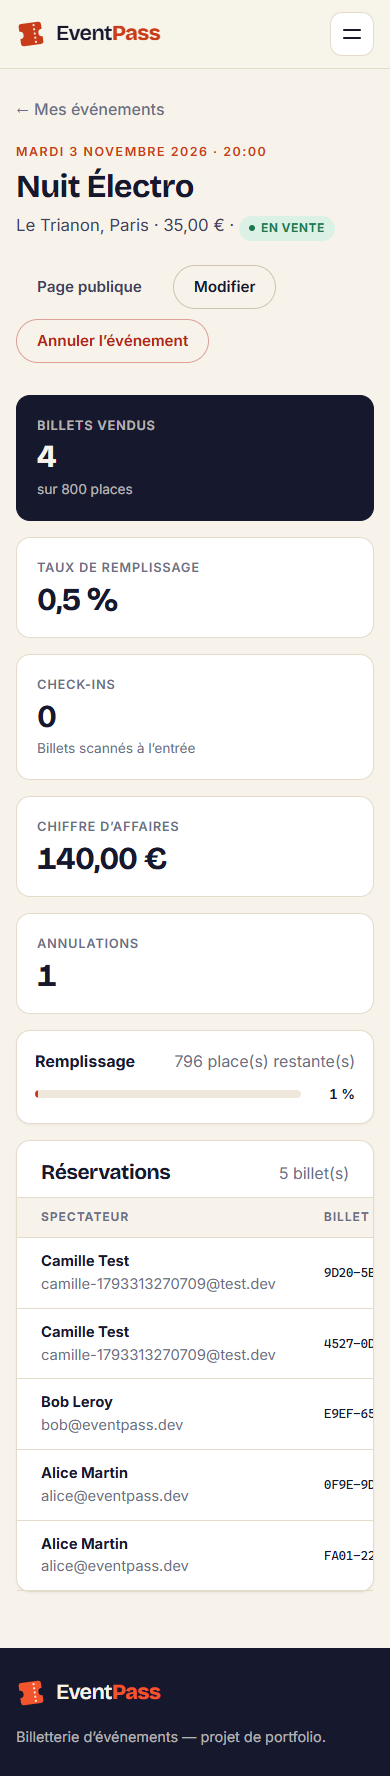
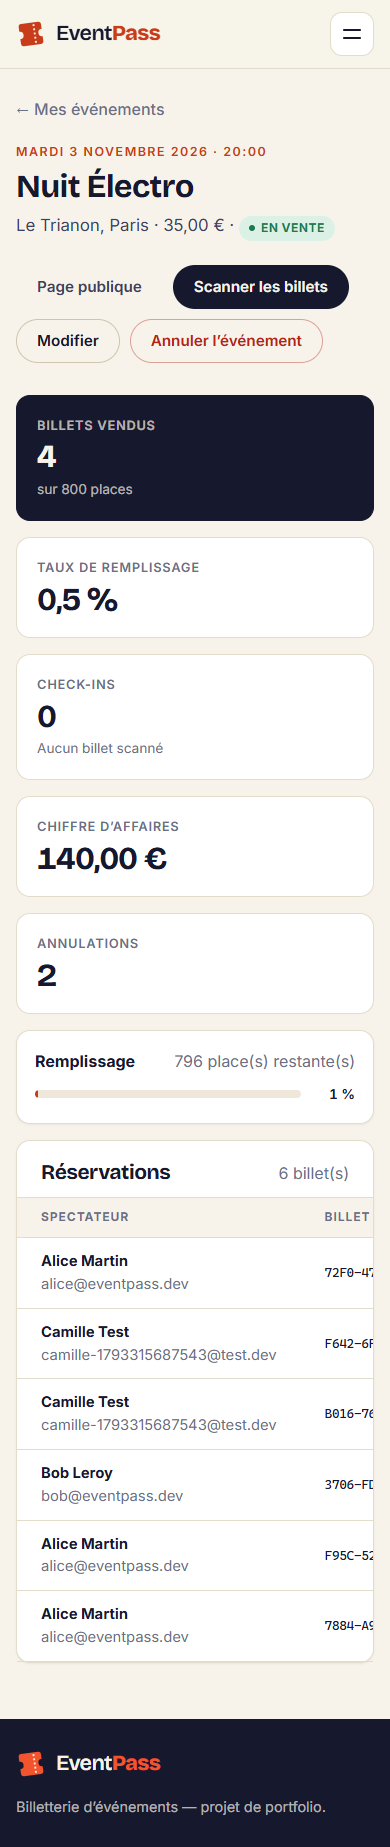
docs: CLAUDE.md, README (test sur téléphone) et captures de la phase 3

diff --git a/CLAUDE.md b/CLAUDE.md
@@ -24,10 +24,36 @@ Le cahier des charges complet est dans `EventPass_prompt_ClaudeCode.md`.
   Une seule instance avec deux bases : `eventpass` (dev) et `eventpass_test` (tests).
 - **Auth** : JWT (en-tête `Authorization: Bearer`, durée configurable `JWT_EXPIRES_IN`) + bcrypt.
 - **Validation** : zod. **Sécurité** : helmet, CORS, express-rate-limit sur le login.
-- **Tests** : Jest + Supertest sur la base `eventpass_test`.
+- **Tests** : Jest + Supertest sur la base `eventpass_test` ; bout en bout : Playwright dans
+  `e2e/` (voir `e2e/README.md`).
 - **Frontend** (`frontend/`) : React 19 + Vite 8 (ES modules), React Router 8 (mode déclaratif
   `BrowserRouter`/`Routes`), Context API, axios. CSS Modules + variables CSS globales.
   Lint : oxlint (`npm run lint`). Polices auto-hébergées via `@fontsource-variable`.
+  QR : `qrcode` (génération), `html5-qrcode` (scan caméra, page chargée en `lazy()`).
+- **Dépôt** : https://github.com/zakaech/EventPass (branche `main`).
+
+## QR code et check-in (phase 3)
+- Jeton du QR : `EP1.<uuid du billet>.<HMAC-SHA256(QR_SECRET, "qr:"+uuid) en base64url>`,
+  calculé à la volée dans `GET /me/tickets` (champ `qr_token`, null si le billet n'est pas
+  VALIDE), jamais stocké. Code de secours : `XXXX-XXXX-XXXX-XXXX` = 8 premiers caractères de
+  l'uuid + 8 caractères hex de `HMAC("secours:"+uuid)` (champ `code_secours`).
+  Tout est dans `backend/src/utils/qrToken.js` (comparaisons en temps constant).
+- `QR_SECRET` obligatoire, ≥ 32 caractères, **différent** de `JWT_SECRET` (vérifié au démarrage).
+- `POST /organisateur/checkin { event_id, token }` (token = QR ou code de secours). Signature
+  vérifiée AVANT toute requête SQL, puis UN seul `UPDATE … WHERE statut = 'VALIDE' AND
+  event_id = $2 AND e.organisateur_id = $3 AND e.statut = 'PUBLIE' AND now() <= date_debut +
+  CHECKIN_WINDOW_HOURS`. Si 0 ligne : relecture pour le message. Codes d'erreur :
+  `QR_INVALIDE` (400), `DEJA_UTILISE` (409, `details.checked_in_at`), `BILLET_ANNULE`,
+  `AUTRE_EVENEMENT` (titre en `details` seulement si même organisateur), `EVENEMENT_ANNULE`,
+  `CHECKIN_FERME` (409), 403/404 si l'événement n'est pas à l'organisateur.
+- Le check-in utilise le statut **stocké** (`PUBLIE`), pas le statut calculé : un événement est
+  `TERMINE` dès `date_debut` mais reste contrôlable jusqu'à `date_debut + CHECKIN_WINDOW_HOURS`
+  (défaut 12). Pas de borne basse (on peut scanner avant l'ouverture des portes).
+  `checkin_ouvert` est calculé côté service (`eventService.isCheckinOpen`).
+- Tests de concurrence du check-in : passer par le **service** (Promise.allSettled), car via HTTP
+  les middlewares étalent les requêtes et un check-in non atomique passerait quand même.
+- Test caméra sur téléphone : `npm run dev:phone` (HTTPS auto-signé + `--host`), API relayée par
+  le proxy Vite (`/api` → `localhost:3000`) pour éviter le contenu mixte.
 
 ## Conventions frontend
 - `pages/` (une page par route, sous-dossiers `organisateur/` et `admin/`), `components/`
@@ -39,6 +65,8 @@ Le cahier des charges complet est dans `EventPass_prompt_ClaudeCode.md`.
 - Chargement de données : hook `useAsync(fn, deps)` → `{ data, loading, error, reload, setData }`.
 - Erreurs API affichées via `getErrorMessage(err)` ; erreurs par champ via `getFieldErrors(err)`
   + `<FormField error>`.
+- API appelée en relatif (`/api/v1`) : en dev, le proxy Vite relaie vers `localhost:3000` ;
+  en production, `VITE_API_URL` donne l'URL absolue.
 - JWT dans `localStorage` (`services/tokenStorage.js`), ajouté par l'intercepteur de requête.
   Intercepteur de réponse : sur 401 (hors `/auth/login`), il appelle le handler enregistré par
   `AuthProvider` → `endSession()` : vide le jeton, `setUser(null)` **et** `navigate()` dans un
@@ -75,16 +103,21 @@ Le cahier des charges complet est dans `EventPass_prompt_ClaudeCode.md`.
 - `backend/` : `npm run db:migrate` ; `npm run db:seed` ; `npm run dev` (API sur
   http://localhost:3000/api/v1) ; `npm test` (Jest : recrée le schéma de `eventpass_test` puis
   lance les tests en série) ; `npm run lint`
-- `frontend/` : `npm run dev` (http://localhost:5173) ; `npm run build` ; `npm run lint`
-- Tests de bout en bout manuels : lancer l'API avec `LOGIN_RATE_LIMIT_MAX=1000`, sinon la limite
-  de 10 connexions / 15 min par IP bloque les scénarios qui se reconnectent souvent.
+- `frontend/` : `npm run dev` (http://localhost:5173) ; `npm run dev:phone` (HTTPS, réseau
+  local, pour tester la caméra sur téléphone) ; `npm run build` ; `npm run lint`
+- `e2e/` : `npm test` — après `npm run db:seed`, API lancée avec `LOGIN_RATE_LIMIT_MAX=1000`
+  (sinon la limite de 10 connexions / 15 min par IP bloque le scénario) et frontend démarré.
+- Mutations temporaires du code pour éprouver un test : toujours sur une **copie de
+  sauvegarde** restaurée ensuite, jamais via `git checkout` (efface le travail non commité).
 - Collection de requêtes : `backend/requests/eventpass.http` (extension REST Client)
 - Comptes de démo (mot de passe `Password123!`) : admin@, alice@, bob@, sonora@, atlas@,
   nouveau@ (organisateur en attente) — tous en `@eventpass.dev`
 
 ## Décisions prises
-- Projet dans `C:\dev\EventPass` (hors OneDrive). Dépôt GitHub distant : pas encore configuré
-  (CLI `gh` non installée). `EventPass_prompt_ClaudeCode.md` est ignoré par git.
+- Projet dans `C:\dev\EventPass` (hors OneDrive). Remote `origin` = GitHub (push par HTTPS,
+  CLI `gh` non installée). `EventPass_prompt_ClaudeCode.md` est ignoré par git.
+- Captures d'écran pour le README : `docs/screenshots/` (desktop `NN-*.png`, mobile `m-NN-*.png`),
+  régénérées par le scénario e2e puis recopiées.
 - Quota : 4 billets max **au total** par utilisateur et par événement (VALIDE + UTILISE).
 - Index composite `tickets (event_id, user_id)` (pas d'index `tickets (event_id)` seul).
 - Filtre ville insensible à la casse (`lower(ville)`, index sur l'expression) ; filtres
@@ -106,8 +139,9 @@ Le cahier des charges complet est dans `EventPass_prompt_ClaudeCode.md`.
 - [x] Phase 1 — MVP backend (45 tests verts, dont les tests de concurrence) — revérifiée
   depuis une base vide (down -v → migrate → seed → tests → lint → collection .http complète)
 - [x] Phase 2 — Frontend React — parcours des 3 rôles vérifiés dans un navigateur réel
-  (Playwright + Edge, 23 étapes, desktop et mobile 390 px, 0 erreur console). Script de
-  vérification non versionné (prévu : tests E2E en phase 4 si souhaité).
-- [ ] Phase 3 — QR code et check-in
+  (Playwright + Edge, desktop et mobile 390 px, 0 erreur console). Script versionné dans `e2e/`.
+- [x] Phase 3 — QR code et check-in — 73 tests Jest (dont 18 check-in, 10 signature) ; scénario
+  e2e de 31 étapes, dont un scan réel par caméra simulée sur téléphone (valide puis déjà
+  utilisé) et saisie manuelle (secours, falsifié, autre événement/organisateur, annulé).
 - [ ] Phase 4 — Tests, Docker, CI
 - [ ] Phase 5 — Déploiement

diff --git a/README.md b/README.md
@@ -31,6 +31,28 @@ Tests backend : `npm test` (dans `backend/`, avec PostgreSQL démarré).
 Requêtes d'exemple : [backend/requests/eventpass.http](backend/requests/eventpass.http)
 (extension VS Code « REST Client »).
 
+## Tester le scanner de billets sur un téléphone
+
+Les navigateurs n'autorisent la caméra que sur une page sécurisée : HTTPS, ou `localhost`.
+Depuis un téléphone, il faut donc servir le frontend en HTTPS :
+
+```bash
+cd frontend
+npm run dev:phone        # affiche une URL « Network: https://192.168.x.x:5173 »
+```
+
+1. Le téléphone doit être sur le **même réseau Wi-Fi** que l'ordinateur (autoriser Node.js dans
+   le pare-feu Windows si une fenêtre le demande).
+2. Ouvrir l'URL `https://192.168.x.x:5173` sur le téléphone. Le certificat est auto-signé :
+   accepter l'avertissement (« Paramètres avancés » → « Continuer »).
+3. Se connecter avec `sonora@eventpass.dev`, ouvrir **Scanner**, autoriser la caméra.
+4. Sur l'ordinateur, se connecter avec `alice@eventpass.dev` → Mes billets → « Afficher » sur un
+   billet de *Live au Point Éphémère*, et le présenter à la caméra du téléphone.
+
+L'API n'a pas besoin d'être exposée : le serveur de Vite relaie `/api` vers `localhost:3000`
+(une page HTTPS ne peut pas appeler une API en HTTP simple). Alternative sans certificat à
+accepter : un tunnel HTTPS (`cloudflared tunnel --url http://localhost:5173`, ngrok…).
+
 ## Comptes de démo
 
 Mot de passe commun : `Password123!` — la page de connexion propose aussi une connexion en un clic.
